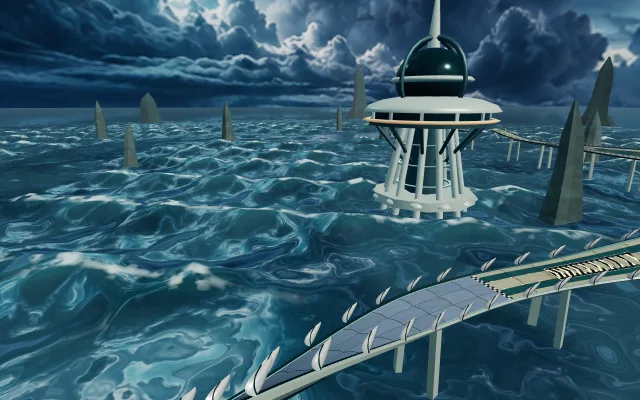
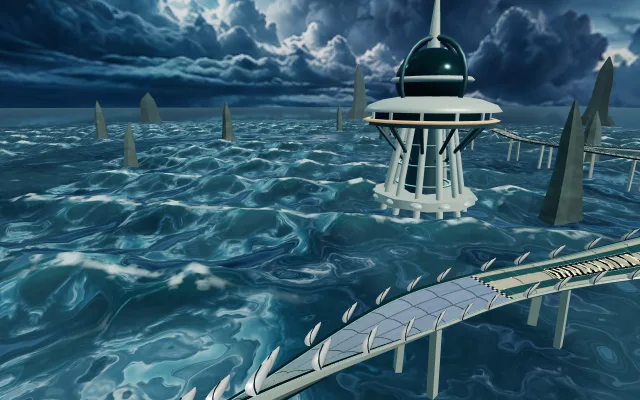
Refine Nacre road finishes and document feature-aware comparisons

Changed region(s): [[0.4062, 0.78, 0.6562, 0.99], [0.3438, 0.99, 0.4062, 1.0]]

diff --git a/games/vector-nova/src/levels/nacre/track/production.js b/games/vector-nova/src/levels/nacre/track/production.js
@@ -6,6 +6,7 @@ import {
   beamTransform,
 } from '../../../track/geometry.js';
 import { nacreSeabedHeight } from '../environment/seabed.js';
+import { applyNacreSurfaceFinish } from './surface-finish.js';
 
 const point = (frame, x, y, z = 0) =>
   frame.position
@@ -57,7 +58,14 @@ function ceramicPanels(track, runs) {
   const channels = Object.fromEntries(
     ['ceramic', 'membrane', 'glaze', 'reveal'].map((name) => [
       name,
-      { positions: [], normals: [], colors: [], uv: [], roadCoord: [] },
+      {
+        positions: [],
+        normals: [],
+        colors: [],
+        uv: [],
+        roadCoord: [],
+        panel: [],
+      },
     ]),
   );
   const addTriangle = (channel, vertices, color) => {
@@ -68,6 +76,7 @@ function ceramicPanels(track, runs) {
       output.colors.push(color.r, color.g, color.b);
       output.uv.push(vertex.x / 9, vertex.distance / 18);
       output.roadCoord.push(vertex.distance, vertex.x);
+      output.panel.push(...vertex.panel);
     }
   };
   // Large dry shell plates become broad pressure membranes beneath the water.
@@ -163,6 +172,7 @@ function ceramicPanels(track, runs) {
               up: frame.up,
               x,
               distance: clipped,
+              panel: [(u / across) * (x1 - x0), fv * (b - a), x1 - x0, b - a],
             });
           }
         for (let v = 0; v < along; v += 1)
@@ -232,11 +242,16 @@ function ceramicPanels(track, runs) {
         new THREE.Float32BufferAttribute(data.colors, 3),
       );
       geometry.setAttribute('uv', new THREE.Float32BufferAttribute(data.uv, 2));
-      if (name !== 'reveal')
+      if (name !== 'reveal') {
+        geometry.setAttribute(
+          'nacrePanel',
+          new THREE.Float32BufferAttribute(data.panel, 4),
+        );
         geometry.setAttribute(
           'roadCoord',
           new THREE.Float32BufferAttribute(data.roadCoord, 2),
         );
+      }
       geometry.computeBoundingSphere();
       return [name, geometry];
     }),
@@ -342,13 +357,13 @@ export function buildNacreTrack(track) {
     {
       color: 0xffffff,
       vertexColors: true,
-      metalness: 0.12,
-      specularIntensity: 0.6,
-      roughness: 0.57,
-      clearcoat: 0.62,
+      metalness: 0.06,
+      specularIntensity: 1,
+      roughness: 0.48,
+      clearcoat: 1,
       envMapIntensity: 1.3,
       // A continuous top coat avoids a second correlated near-mirror lobe.
-      clearcoatRoughness: 0.46,
+      clearcoatRoughness: 0.22,
       iridescence: 0.36,
       iridescenceIOR: 1.3,
       iridescenceThicknessRange: [240, 360],
@@ -385,8 +400,8 @@ export function buildNacreTrack(track) {
   const membraneMaterial = material({
     color: 0xffffff,
     vertexColors: true,
-    metalness: 0.38,
-    roughness: 0.12,
+    metalness: 0.1,
+    roughness: 0.22,
     transparent: true,
     opacity: 0.55,
     depthWrite: false,
@@ -427,20 +442,32 @@ export function buildNacreTrack(track) {
     {
       color: 0xffffff,
       vertexColors: true,
-      metalness: 0.32,
-      roughness: 0.085,
+      metalness: 0.08,
+      roughness: 0.16,
       transparent: true,
-      opacity: 0.66,
+      opacity: 0.58,
       depthWrite: false,
       side: THREE.DoubleSide,
       envMapIntensity: 1.5,
       clearcoat: 1,
-      clearcoatRoughness: 0.06,
+      clearcoatRoughness: 0.1,
       iridescence: 0.24,
       iridescenceIOR: 1.42,
     },
     true,
   );
+  applyNacreSurfaceFinish(ceramic, 'ceramic');
+  applyNacreSurfaceFinish(pressureGlass, 'glaze');
+  applyNacreSurfaceFinish(membraneMaterial, 'membrane');
+  // Borrow the existing above-water district capture for exposed coated panels.
+  // Submerged membranes keep the backdrop response; no reflected dry dock there.
+  group.userData.setReflection = (texture) => {
+    for (const surface of [ceramic, pressureGlass]) {
+      surface.envMap = texture;
+      surface.envMapIntensity = surface === ceramic ? 1.5 : 1.1;
+      surface.needsUpdate = true;
+    }
+  };
   const gillShell = material(
     {
       color: 0xffffff,
@@ -908,7 +935,7 @@ export function buildNacreTrack(track) {
     group.userData.sourceBudgets.parts += object.count ?? 1;
   });
   group.userData.provenance =
-    'Original source-authored ceramic geometry, smooth Physical pearl and filtered albedo tint, gill fins, pressure windows, support engineering and one deterministic 128px gill normal map; convex sculpted shell gills, stepped pressure-joint reveals and broad smoked-glass running bays. No external images or assets.';
+    'Original source-authored ceramic geometry, coated Physical pearl, metric fitted rims, filtered ceramic grain and growth tint, gill fins, pressure windows, support engineering and one deterministic 128px gill normal map; convex sculpted shell gills, stepped pressure-joint reveals and broad smoked-glass running bays. Road finish uses source-authored shaders and the borrowed district reflection; no new image assets.';
   group.userData.dispose = () => {
     geometries.forEach((geometry) => geometry.dispose());
     materials.forEach((mat) => mat.dispose());

diff --git a/games/vector-nova/src/levels/nacre/track/surface-finish.js b/games/vector-nova/src/levels/nacre/track/surface-finish.js
@@ -1,0 +1,80 @@
+// Metric finish on the existing ceramic/glazing panels. No displacement: the
+// approved collision triangles and gap lips remain exactly where they are.
+// A smooth top coat covers fine, distance-filtered ceramic grain; fitted
+// perimeter relief follows the existing panel dimensions in metres.
+export function applyNacreSurfaceFinish(material, kind) {
+  const compile = material.onBeforeCompile;
+  const key = material.customProgramCacheKey();
+  material.onBeforeCompile = (shader, renderer) => {
+    compile.call(material, shader, renderer);
+    shader.vertexShader =
+      `attribute vec4 nacrePanel; varying vec4 vNacrePanel;\n${shader.vertexShader}`.replace(
+        '#include <begin_vertex>',
+        '#include <begin_vertex>\n vNacrePanel = nacrePanel;',
+      );
+    shader.fragmentShader = `
+      varying vec4 vNacrePanel;
+      float nacreFinishHash(vec2 p) {
+        vec3 q = fract(vec3(p.xyx) * .1031);
+        q += dot(q, q.yzx + 33.33);
+        return fract((q.x + q.y) * q.z);
+      }
+      float nacreFinishNoise(vec2 p) {
+        vec2 i = floor(p), f = fract(p); f = f*f*(3.-2.*f);
+        return mix(mix(nacreFinishHash(i), nacreFinishHash(i+vec2(1,0)), f.x),
+                   mix(nacreFinishHash(i+vec2(0,1)), nacreFinishHash(i+vec2(1,1)), f.x), f.y);
+      }
+      vec3 nacreFinishNormal(vec3 surfaceNormal, vec3 surfacePosition, float height, float faceSign) {
+        vec3 dx = dFdx(surfacePosition), dy = dFdy(surfacePosition);
+        vec3 rx = cross(dy, surfaceNormal), ry = cross(surfaceNormal, dx);
+        float det = dot(dx, rx) * faceSign;
+        return normalize(abs(det) * surfaceNormal
+          - sign(det) * (dFdx(height) * rx + dFdy(height) * ry));
+      }
+      ${shader.fragmentShader}`;
+    shader.fragmentShader = shader.fragmentShader.replace(
+      '#include <color_fragment>',
+      `#include <color_fragment>
+      vec2 panelEdges = min(vNacrePanel.xy, vNacrePanel.zw - vNacrePanel.xy);
+      float panelEdge = max(0., min(panelEdges.x, panelEdges.y));
+      float edgePixel = max(fwidth(panelEdge), .001);
+      float panelRim = 1. - smoothstep(.018, .095 + edgePixel, panelEdge);
+      float registerLine = 1. - smoothstep(.004, .004 + edgePixel, abs(panelEdge - .19));
+      // Local rim relief and submillimetre grain avoid broad correlated lobes.
+      // Evaluate continuously per fragment, never at triangle vertices.
+      float rimHeight = .012 * smoothstep(0., .07 + edgePixel, panelEdge);
+      vec2 finishMetres = vNacrePanel.xy;
+      float grainFilter = 1. - smoothstep(.4, 1.5, length(fwidth(finishMetres * 145.)));
+      float ceramicGrain = (nacreFinishNoise(finishMetres * 145.) - .5) * grainFilter;
+      diffuseColor.rgb *= (1. - .24 * panelRim - .14 * registerLine)
+        * (1. + ceramicGrain * ${kind === 'ceramic' ? '.035' : '.012'});`,
+    );
+    shader.fragmentShader = shader.fragmentShader.replace(
+      '#include <roughnessmap_fragment>',
+      `#include <roughnessmap_fragment>
+      roughnessFactor = mix(roughnessFactor + ceramicGrain * .045, .27, panelRim);`,
+    );
+    shader.fragmentShader = shader.fragmentShader.replace(
+      '#include <normal_fragment_maps>',
+      `#include <normal_fragment_maps>
+      normal = nacreFinishNormal(normal, -vViewPosition,
+        rimHeight ${kind === 'ceramic' ? '+ .00045 * ceramicGrain' : ''}, faceDirection);
+      ${
+        kind === 'ceramic'
+          ? ''
+          : `
+      // Clear centres retain visible under-ribs; compression seals stay denser.
+      float grazing = pow(1. - clamp(abs(dot(normal, normalize(vViewPosition))), 0., 1.), 3.);
+      diffuseColor.a = mix(diffuseColor.a * .72, .90,
+        clamp(panelRim * .88 + grazing * .58, 0., 1.));`
+      }`,
+    );
+    if (material.isMeshPhysicalMaterial)
+      shader.fragmentShader = shader.fragmentShader.replace(
+        '#include <clearcoat_normal_fragment_maps>',
+        `#include <clearcoat_normal_fragment_maps>
+        clearcoatNormal = nacreFinishNormal(clearcoatNormal, -vViewPosition, rimHeight, faceDirection);`,
+      );
+  };
+  material.customProgramCacheKey = () => `${key}-nacre-fitted-${kind}-v1`;
+}

diff --git a/games/vector-nova/docs/expansion/roads/README.md b/games/vector-nova/docs/expansion/roads/README.md
@@ -32,10 +32,10 @@ That sequence is the reference, not the asphalt recipe. See the [finished materi
 
 ## Working process
 
-1. **Inspect what is actually there.** In an isolated worktree, read the road builder, material helpers, texture sources, UVs, lighting/reflection setup and consumers. Open `?artPass=1&level=<slug>` on that worktree's preview. Check a close oblique view, a normal chase view, and the circuit's distinct surface/lighting situations. Save a few camera links with `__VN.getArtPassURL()` and baseline metrics. State the main limitation in plain language before editing.
+1. **Inspect what is actually there.** In an isolated worktree, read the road builder, material helpers, texture sources, UVs, lighting/reflection setup and consumers. Open `?artPass=1&level=<slug>` on that worktree's preview. Inventory ordinary road, special surfaces and hazards, including their visual sources, contact behavior and entry/exit transitions. Check a close oblique view, a normal chase view, and each distinct surface/lighting situation. Save a small named set of camera links with `__VN.getArtPassURL()` and baseline metrics. State the main limitation in plain language before editing.
 2. **Choose the improvement from that diagnosis.** Resolve scale, normals, light response or construction problems where they originate. Use existing maps, authored shaders, licensed materials, new maps or limited finish geometry as appropriate. There is no prescribed texture source, resolution, wetness level or authoring tool. Try a meaningful change in-engine early; avoid a long asset bake before proving it matters. Reuse the [Dev tools pattern](../../../src/ui/graphics-settings.js) for a useful level-local control if live tuning helps; do not add a generic material editor.
 3. **Make the pass coherent.** Carry the successful approach through ordinary connectors and relevant surface families, not just the showcase view. Keep fine detail at a believable physical scale through bends, banks and width changes. Separate surface relief from broad variation and from actual construction. Evaluate the clean material first; add wear only where it improves the material's reading.
-4. **Compare and check.** Show actual Three.js before/after screenshots with matching camera, viewport, quality and lighting/event state. Check short driving segments for stretching, repetition, shimmer, seams and glare; include the brief's special cases. If lighting changes are necessary, distinguish their contribution from the material change. Use one main pass and one focused correction of concrete findings, then hand off the result and remaining limitations. A weak improvement is a reason to reassess the diagnosis, not launch an indefinite critic-score loop.
+4. **Compare and check.** Show actual Three.js before/after screenshots with matching camera, viewport, quality and lighting/event state. Use several fly-camera positions, covering ordinary road and the level-specific features and their transitions: for example Saffron sand strips, Helion heated/cooling floors and Cindercoil lava spills. Compare animated hazards at the same phase, including active and quiet states where relevant. Check short driving segments for stretching, repetition, shimmer, seams and glare; include the brief's special cases. Reflections must not obscure or imitate a hazard, its boundaries or the safe route. If lighting changes are necessary, distinguish their contribution from the material change. Use one main pass and one focused correction of concrete findings, then hand off the result and remaining limitations. A weak improvement is a reason to reassess the diagnosis, not launch an indefinite critic-score loop.
 5. **Finish the production integration.** After acceptance, remove superseded maps, generators, unused materials and temporary A/B paths once all consumers have migrated. Keep useful finish controls with the approved defaults, editable sources, reproducible asset tools and licences. Refresh affected menu stills and their manifest. Put enduring decisions in architecture/art docs, progress in chat, and remove owned temporary captures/scripts/reports from `.experiments/`. Commit and merge only when requested; do not start the next level automatically.
 
 ## Boundaries and verification

diff --git a/games/vector-nova/docs/expansion/roads/nacre.md b/games/vector-nova/docs/expansion/roads/nacre.md
@@ -4,7 +4,7 @@ Use the [road workflow](README.md). Target `nacre`; preserve the ocean and fligh
 
 ## Starting point
 
-The [production road](../../../src/levels/nacre/track/production.js) builds real beveled ceramic plates, glazed areas and submerged pressure membranes. Ceramic already has physical clearcoat/iridescence and filtered growth tint; the small procedural normal map belongs to the gills. Source comments record a prior failure: correlated broad normal/roughness patterns produced repeated angular sheen at chase distance.
+The [production road](../../../src/levels/nacre/track/production.js) builds real beveled ceramic plates, glazed areas and submerged pressure membranes. The local [finish shader](../../../src/levels/nacre/track/surface-finish.js) adds metric fitted rims, distance-filtered fine grain beneath physical clearcoat/iridescence, filtered growth tint and denser pressure-insert edges. Ceramic/glazing borrow the static district probe; the small procedural normal map belongs to the gills. Source comments record a prior failure: correlated broad normal/roughness patterns produced repeated angular sheen at chase distance.
 
 ## Investigate
 
@@ -12,4 +12,4 @@ Check whether the pearl surface, fitted edges and distinct glaze/membrane respon
 
 ## Keep and check
 
-Compare a dry exposed connector, a glazed section, a submerged membrane and a water crossing, plus both receiving decks. Inspect triangle diagonals, highlight continuity, transparency sorting and detail in motion. Keep the [water crossings](../../../src/levels/nacre/environment/water-crossings.test.js), gap boundaries, road contact, underwater visibility and [flight runtime](../../../src/levels/nacre/track/runtime.js) intact. A surface change must not hide the upcoming route or change water/landing behavior.
+Compare a dry exposed connector, a glazed section, a submerged membrane and a water crossing, plus both receiving decks and the ascent back through the waterline. Save matching fly-camera positions for these transitions and chase views above and below water; a single showcase angle is insufficient. Inspect triangle diagonals, highlight continuity, transparency sorting and detail in motion. Keep the [water crossings](../../../src/levels/nacre/environment/water-crossings.test.js), gap boundaries, road contact, underwater visibility and [flight runtime](../../../src/levels/nacre/track/runtime.js) intact. A surface change must not hide the upcoming route or change water/landing behavior.

diff --git a/games/vector-nova/docs/ART_BIBLE.md b/games/vector-nova/docs/ART_BIBLE.md
@@ -24,7 +24,7 @@ Keep the ceramic/graphite/titanium family but distinct silhouettes. **Shrike** u
 
 - **Halcyon Speedway:** elevated metropolitan infrastructure at blue hour, warm low horizon and cool steel/sky. Dark fine-aggregate asphalt with broken, almost-wet reflections, a pale concrete spine, engineered barriers and amber guidance. Keep aggregate at real scale and dampness broad enough to read in motion; retain lane paint and construction joints. Layered authored neighborhoods, supports meeting the city floor, canal courts and split-crown landmark; preserve the varied introductory route.
 - **Asterion Orbital:** sunlit orbital shipyard above a living planet, with ivory alloy, graphite and planetary bounce. Smooth coated-alloy induction cassettes with sealed joints, machined bevels, seated contacts and a restrained satin response; real open lattice spans, broad cyan/magenta/blue road sections and tall open U frames. Designed dockyards and service structures, large lit moon and structured stellar sky.
-- **Nacre Tempest:** ocean storm, basalt spires, luminous reefs and tide observatory. Pearl/ceramic scales, translucent pressure inserts, swept fin edges and distinct surface/submerged districts. Actual water depth and motion, readable jumps/landings, restrained lightning and a monumental creature; retain the human-approved track/water direction and final lane feedback.
+- **Nacre Tempest:** ocean storm, basalt spires, luminous reefs and tide observatory. Pearl/ceramic scales, translucent pressure inserts, swept fin edges and distinct surface/submerged districts. Actual water depth and motion, readable jumps/landings, restrained lightning and a monumental creature; retain the human-approved track/water direction and final lane feedback. Running ceramics use a clean continuous top coat, restrained fine grain and fitted panel rims; pressure inserts keep clearer centres and denser edges. Preserve waterline, underwater-route and landing readability when tuning their response.
 
 The saved [circuit-wall concept](levels/art-revamp-reference/circuit-wall-v1.png) supplies a future art-revamp reference: Halcyon can explore racing between closer buildings, while Nacre can pursue stronger storm swells, crest/foam structure and water lighting. These are future passes in the roadmap, not current gameplay screenshots or exact route designs. Preserve each world's palette and gameplay readability; the monochrome menu study is not a mandate to desaturate the worlds.
 

diff --git a/games/vector-nova/ARCHITECTURE.md b/games/vector-nova/ARCHITECTURE.md
@@ -142,6 +142,8 @@ Load only selected-level assets. The [common level checks](tools/level-checks/RE
 
 ## Nacre flight, water and moving scenery
 
+The road retains its original ceramic, glazing and membrane triangles and road-contact coordinates. `track/surface-finish.js` uses panel-local metre coordinates for fitted rim relief and inset seals; submillimetre ceramic grain filters out at distance beneath a smooth clearcoat. Transparent centres and denser grazing/edge response preserve the pressure inserts. Ceramic and exposed glazing borrow the existing static district probe; submerged membranes retain the backdrop response. No new textures or reflection passes are allocated. The extra panel attribute adds about 2.5 MiB of geometry storage. Broad correlated normal/roughness maps remain excluded because they exposed repeated angular highlights.
+
 The Nacre runtime owns ballistic flight, bounded air control and swept receiving-road/rail contact. Landing coverage is derived from the accepted 70%-through-boost launch envelope, including long receiving straights. Sweep the hull between ticks to prevent tunnelling; accept only the authored road and orientation. A forgiving half-width rail catch deflects the craft inward with one small penalty. Automatic recovery credits only its validated jump interval; ordinary manual recovery stays invalidating.
 
 Keep craft, road and camera origins consistent at takeoff and landing. Transport the previous camera relative to the craft anchor, not between mismatched road-centre/world-pose origins; otherwise off-centre launches visibly jump sideways. Preserve the actual contact pose, then settle height/attitude smoothly. Both live input and replay consume the same advance routine and rules identity.

diff --git a/games/vector-nova/docs/expansion/roads/saffron.md b/games/vector-nova/docs/expansion/roads/saffron.md
@@ -12,4 +12,4 @@ Study whether the road reads as thick fused mineral glass rather than uniformly 
 
 ## Keep and check
 
-Compare an open connector, the skull descent, a sand boundary and a vertebral receiving deck in both quality modes. Check grazing reflections, transparency layering and repetitive veins through banks. Preserve supported profiles, baffles, gaps, sand drag and optional-skip rules. Asset changes shared with `saffron-wide` require checking both slugs and refreshing both menu stills; do not modify the widening task's geometry or approval state. The road's procedural glass and the environment's noise volume are separate systems—trace actual consumers before replacing either.
+Compare an open connector, the skull descent, sand-strip entry/interior/exit and a vertebral receiving deck in both quality modes. Capture both sides of the glass/sand transition, including a sheltered deposit; sand must still read as a granular contact surface rather than another glossy glass panel. Check grazing reflections, transparency layering and repetitive veins through banks. Preserve supported profiles, baffles, gaps, sand drag and optional-skip rules. Asset changes shared with `saffron-wide` require checking both slugs and refreshing both menu stills; do not modify the widening task's geometry or approval state. The road's procedural glass and the environment's noise volume are separate systems—trace actual consumers before replacing either.

diff --git a/games/vector-nova/docs/expansion/roads/cindercoil.md b/games/vector-nova/docs/expansion/roads/cindercoil.md
@@ -12,4 +12,4 @@ Check whether the surface conveys dense fired ceramic and formed plate edges at 
 
 ## Keep and check
 
-Compare an ordinary ceramic connector, the glazed Crown, the furnace roll and Curtain Reach; include the vent landing. Keep tile relief stable under moving highlights and ensure warm reflections retain detail. Preserve [spill openings and contact intervals](../../../src/levels/cindercoil/spill.js), warned surge boundaries, collision collection and supported road profiles. Run affected ceramic/road or spill checks alongside the shared runtime check. Shape and collision-only construction must remain independent of texture loading.
+Compare an ordinary ceramic connector, the glazed Crown, the furnace roll and Curtain Reach; include the vent landing and a lava/spill boundary across the road beside the protected lane. Match active and quiet spill phases in before/after views. Reflected lava warmth must not make safe road resemble an active spill or hide the true hazard edge. Keep tile relief stable under moving highlights and ensure warm reflections retain detail. Preserve [spill openings and contact intervals](../../../src/levels/cindercoil/spill.js), warned surge boundaries, collision collection and supported road profiles. Run affected ceramic/road or spill checks alongside the shared runtime check. Shape and collision-only construction must remain independent of texture loading.

diff --git a/games/vector-nova/docs/expansion/roads/helion.md b/games/vector-nova/docs/expansion/roads/helion.md
@@ -12,4 +12,4 @@ Check whether dense ceramic, dark graphite and metallic copper stay distinct und
 
 ## Keep and check
 
-Compare an exposed connector, a shaded braking shelf, the sunshield wall and the edge of a hot/cooling zone. Include an optional jump's receiving area. Check for clipped highlights, lost shadow detail, shimmering grain and copper that overwhelms guidance. Keep thermal contact footprints, cooling, plasma visibility, sheltered main lanes and canopy clearances unchanged. Audit shared-helper consumers and run affected thermal/road checks; the surface pass must not retune hazards or prominence timing.
+Compare an exposed connector, a shaded braking shelf, the sunshield wall and the edge of a hot/cooling zone. Include active heated flooring and its transition to cooled/sheltered road, plus an optional jump's receiving area. Match the event phase in before/after views, checking ordinary and surge states where that floor changes. The finish must preserve the distinction between reflective ceramic and an active thermal hazard. Check for clipped highlights, lost shadow detail, shimmering grain and copper that overwhelms guidance. Keep thermal contact footprints, cooling, plasma visibility, sheltered main lanes and canopy clearances unchanged. Audit shared-helper consumers and run affected thermal/road checks; the surface pass must not retune hazards or prominence timing.
